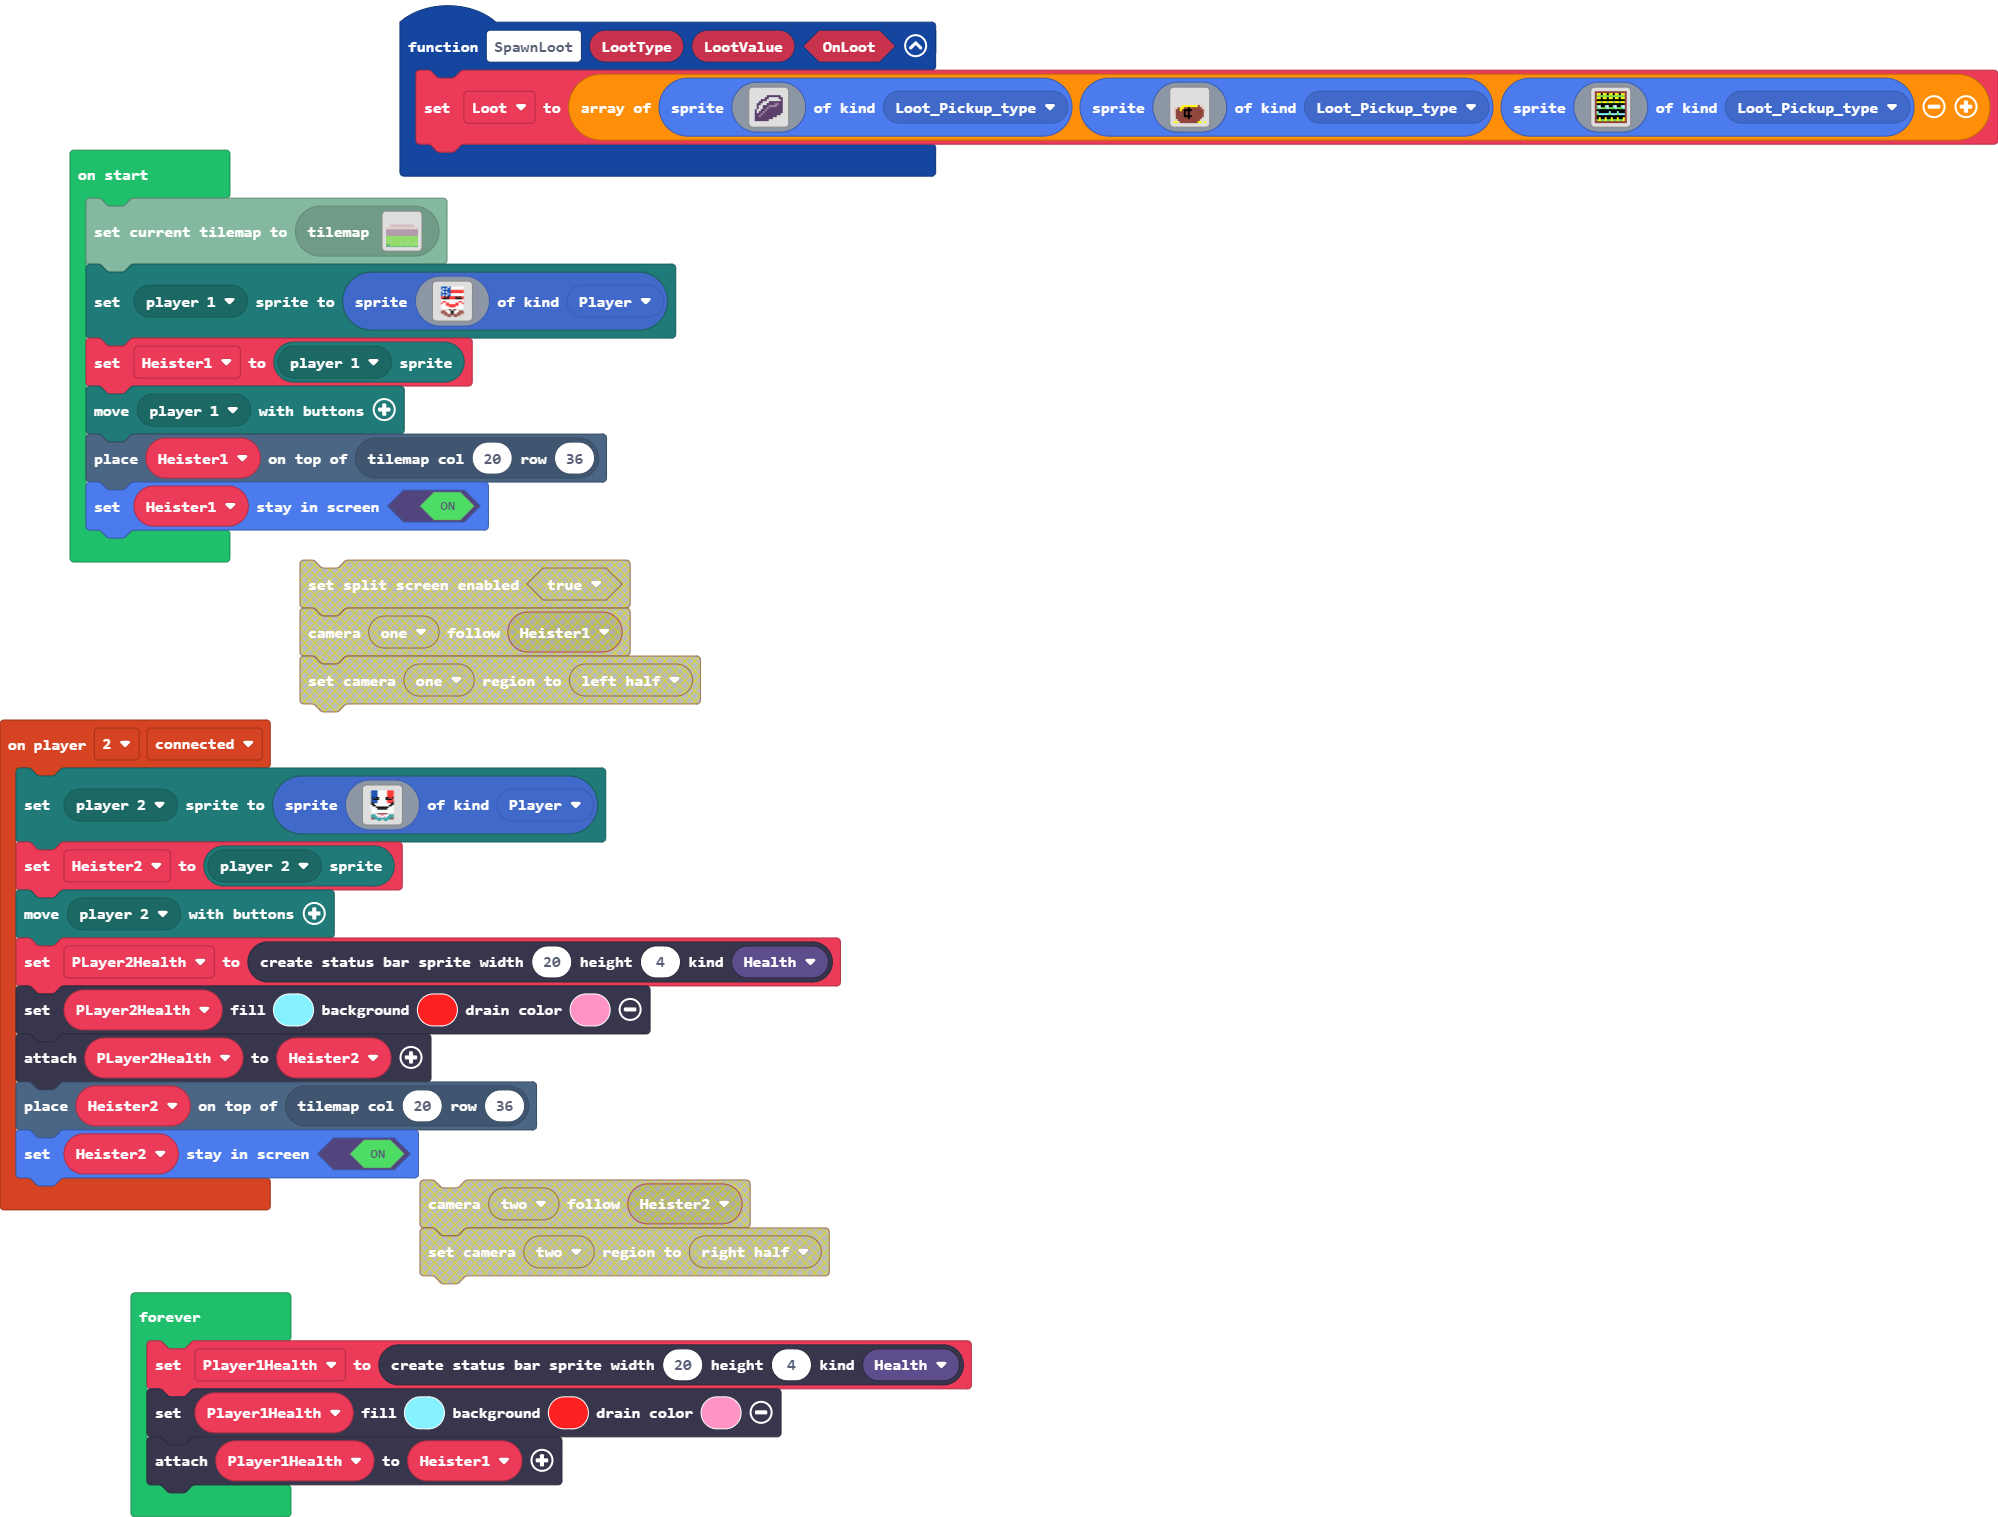
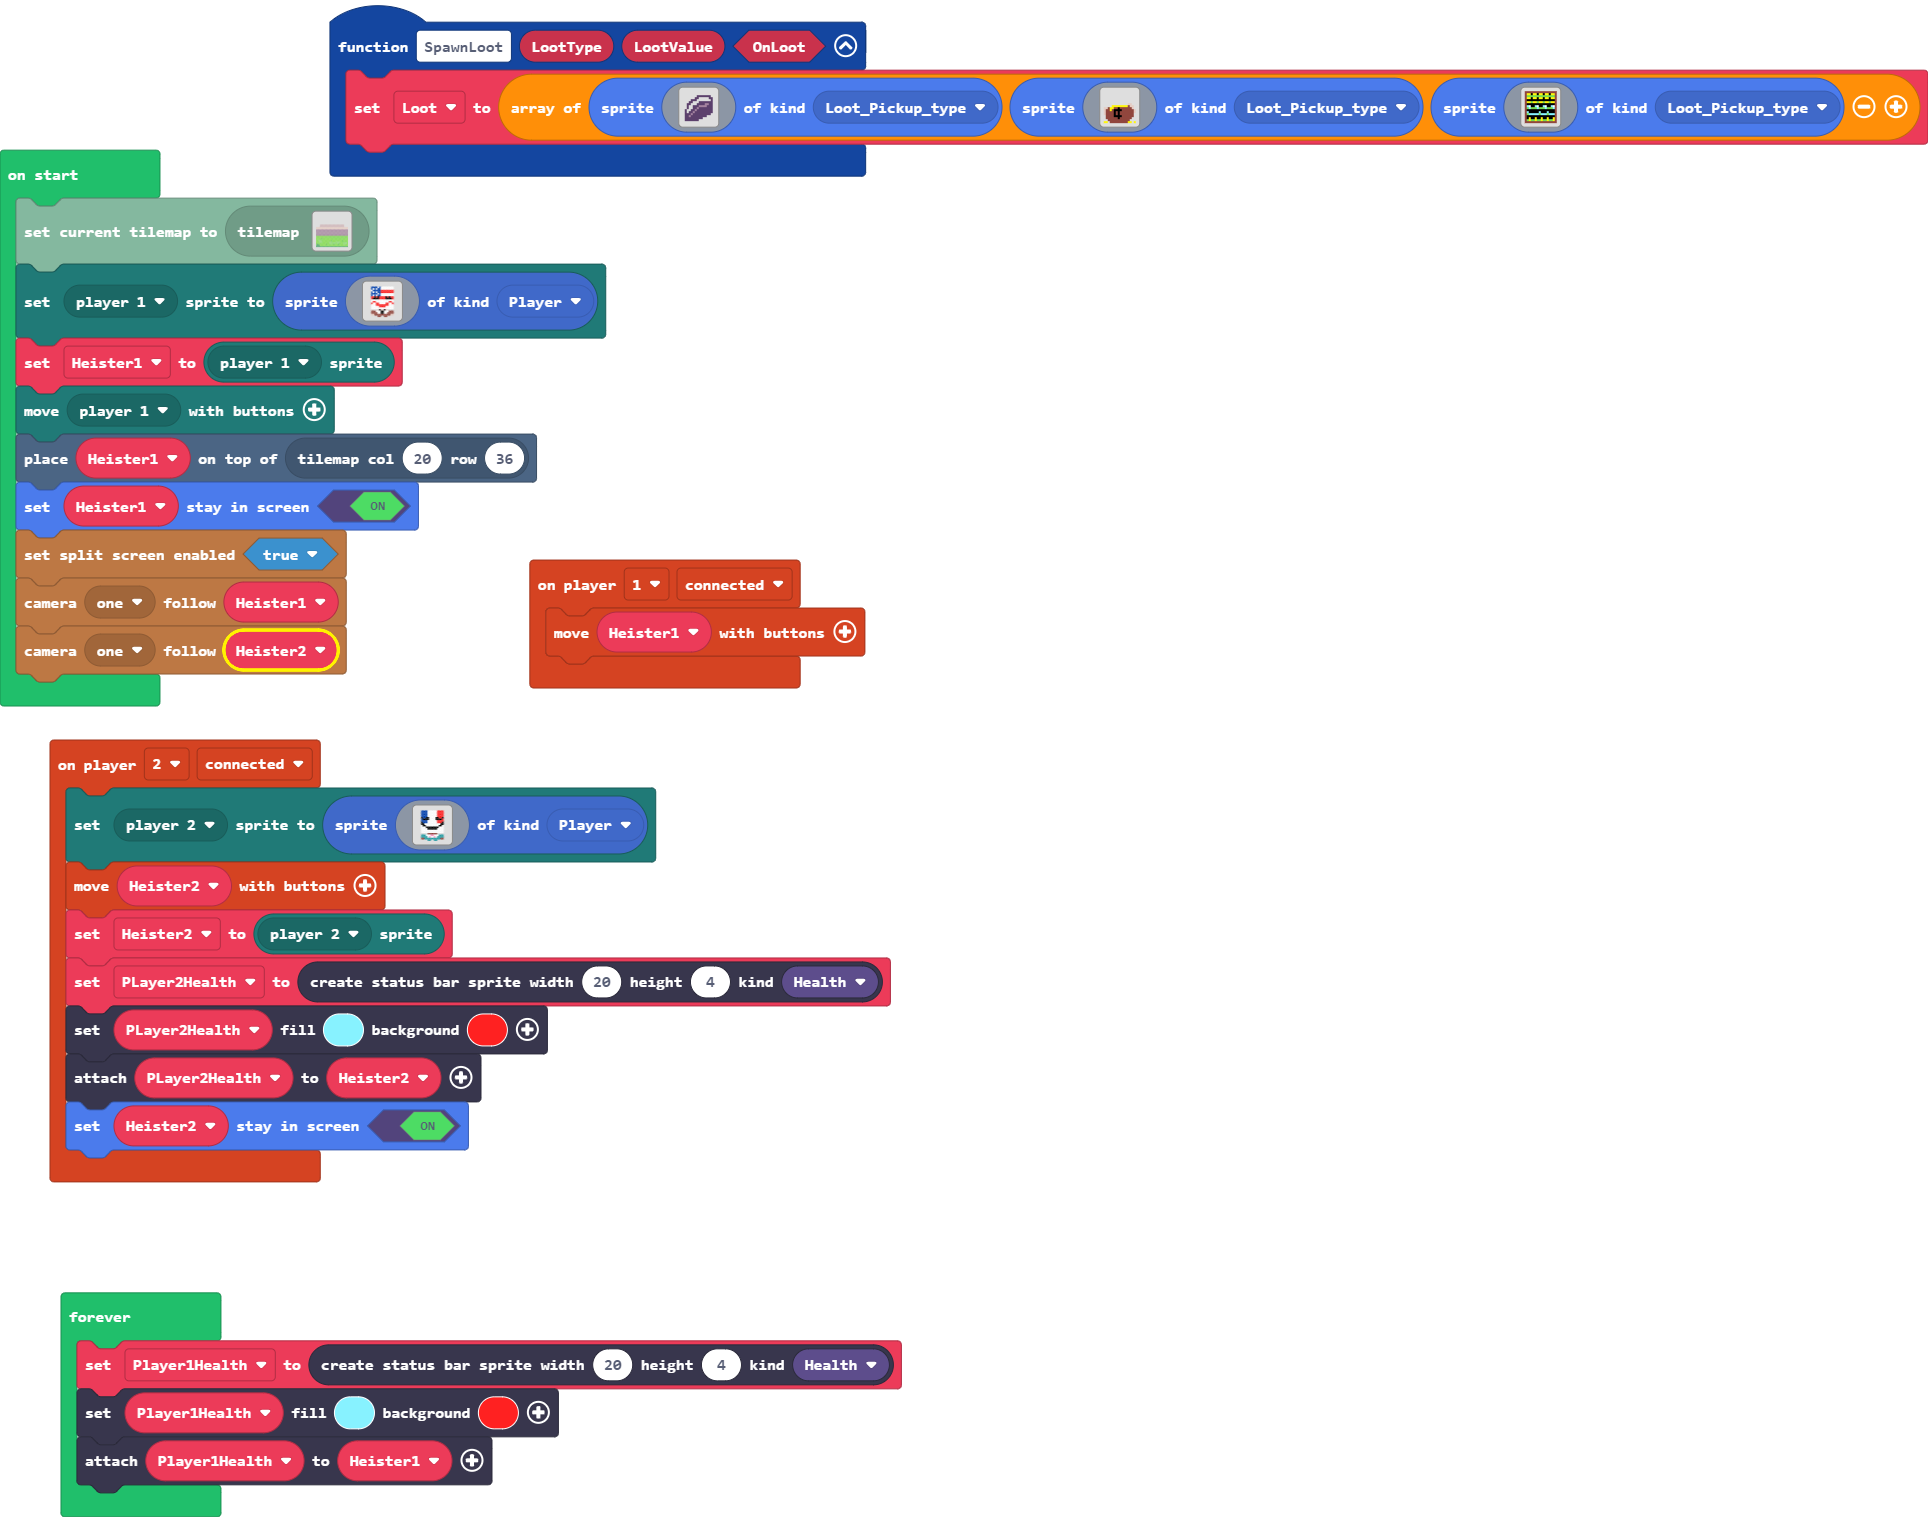
Update main.blocks, main.ts

Changed region(s): [[0.0, 0.0, 0.9959, 1.0]]

diff --git a/main.ts b/main.ts
@@ -6,26 +6,32 @@ function SpawnLoot (LootType: string, LootValue: number, OnLoot: boolean) {
 }
 controller.player2.onEvent(ControllerEvent.Connected, function () {
     mp.setPlayerSprite(mp.playerSelector(mp.PlayerNumber.Two), sprites.create(assets.image`Luxembourg`, SpriteKind.Player))
+    controller.moveSprite(Heister2)
     Heister2 = mp.getPlayerSprite(mp.playerSelector(mp.PlayerNumber.Two))
-    mp.moveWithButtons(mp.playerSelector(mp.PlayerNumber.Two))
     PLayer2Health = statusbars.create(20, 4, StatusBarKind.Health)
-    PLayer2Health.setColor(9, 2, 3)
+    PLayer2Health.setColor(9, 2)
     PLayer2Health.attachToSprite(Heister2)
-    tiles.placeOnTile(Heister2, tiles.getTileLocation(20, 36))
     Heister2.setStayInScreen(true)
+})
+controller.player1.onEvent(ControllerEvent.Connected, function () {
+    controller.moveSprite(Heister1)
 })
 let Player1Health: StatusBarSprite = null
 let PLayer2Health: StatusBarSprite = null
-let Heister2: Sprite = null
 let Loot: Sprite[] = []
+let Heister2: Sprite = null
+let Heister1: Sprite = null
 tiles.loadMap(tiles.createMap(tilemap`Prototype_bank_entrance`))
 mp.setPlayerSprite(mp.playerSelector(mp.PlayerNumber.One), sprites.create(assets.image`Austin`, SpriteKind.Player))
-let Heister1 = mp.getPlayerSprite(mp.playerSelector(mp.PlayerNumber.One))
+Heister1 = mp.getPlayerSprite(mp.playerSelector(mp.PlayerNumber.One))
 mp.moveWithButtons(mp.playerSelector(mp.PlayerNumber.One))
 tiles.placeOnTile(Heister1, tiles.getTileLocation(20, 36))
 Heister1.setStayInScreen(true)
+splitScreen.setSplitScreenEnabled(true)
+splitScreen.cameraFollowSprite(splitScreen.Camera.Camera1, Heister1)
+splitScreen.cameraFollowSprite(splitScreen.Camera.Camera1, Heister2)
 forever(function () {
     Player1Health = statusbars.create(20, 4, StatusBarKind.Health)
-    Player1Health.setColor(9, 2, 3)
+    Player1Health.setColor(9, 2)
     Player1Health.attachToSprite(Heister1)
 })
